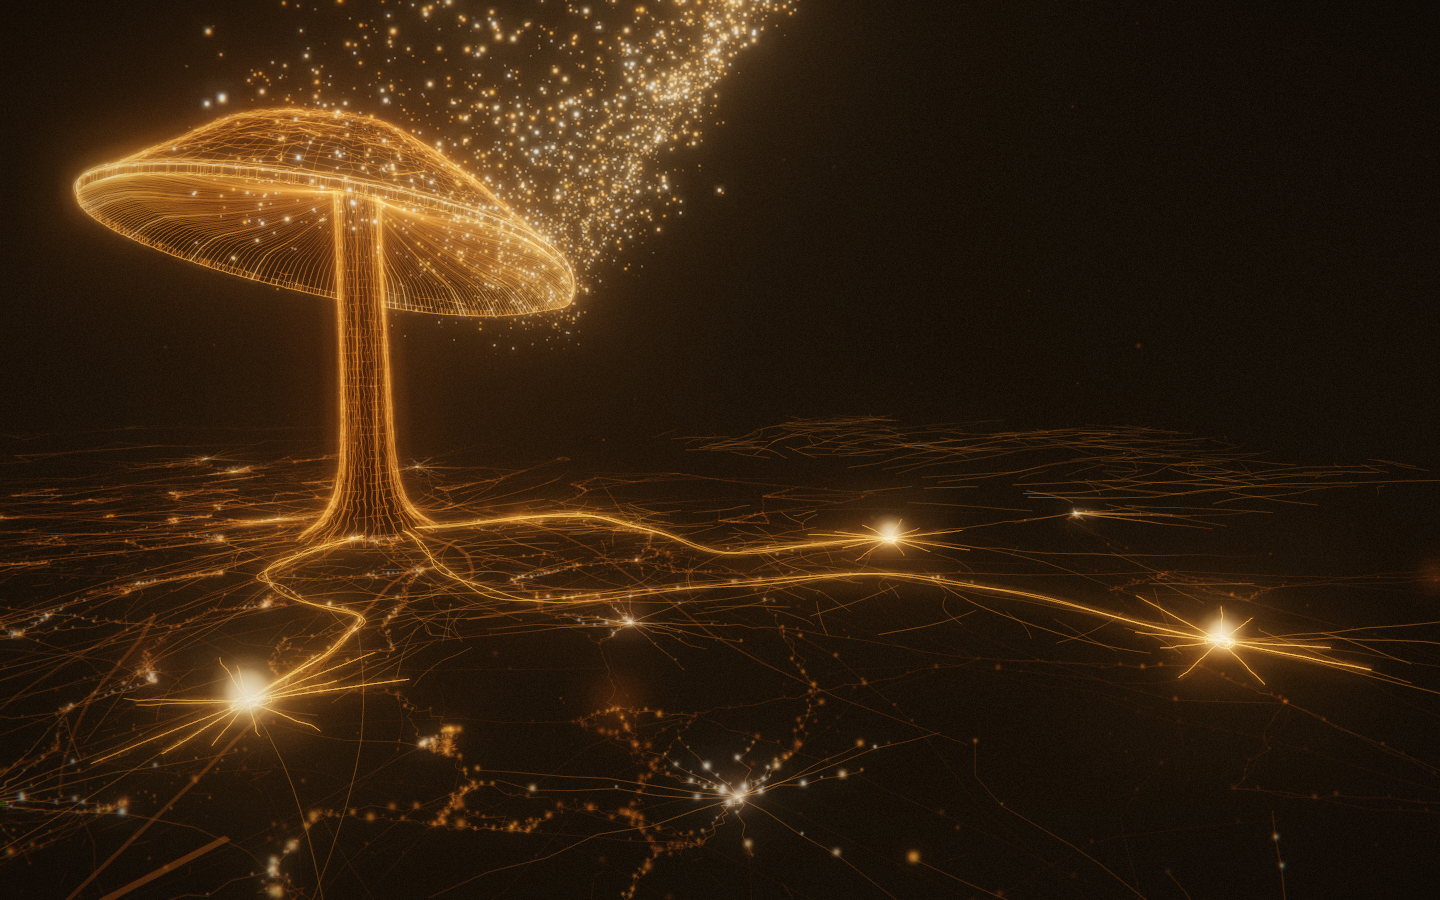
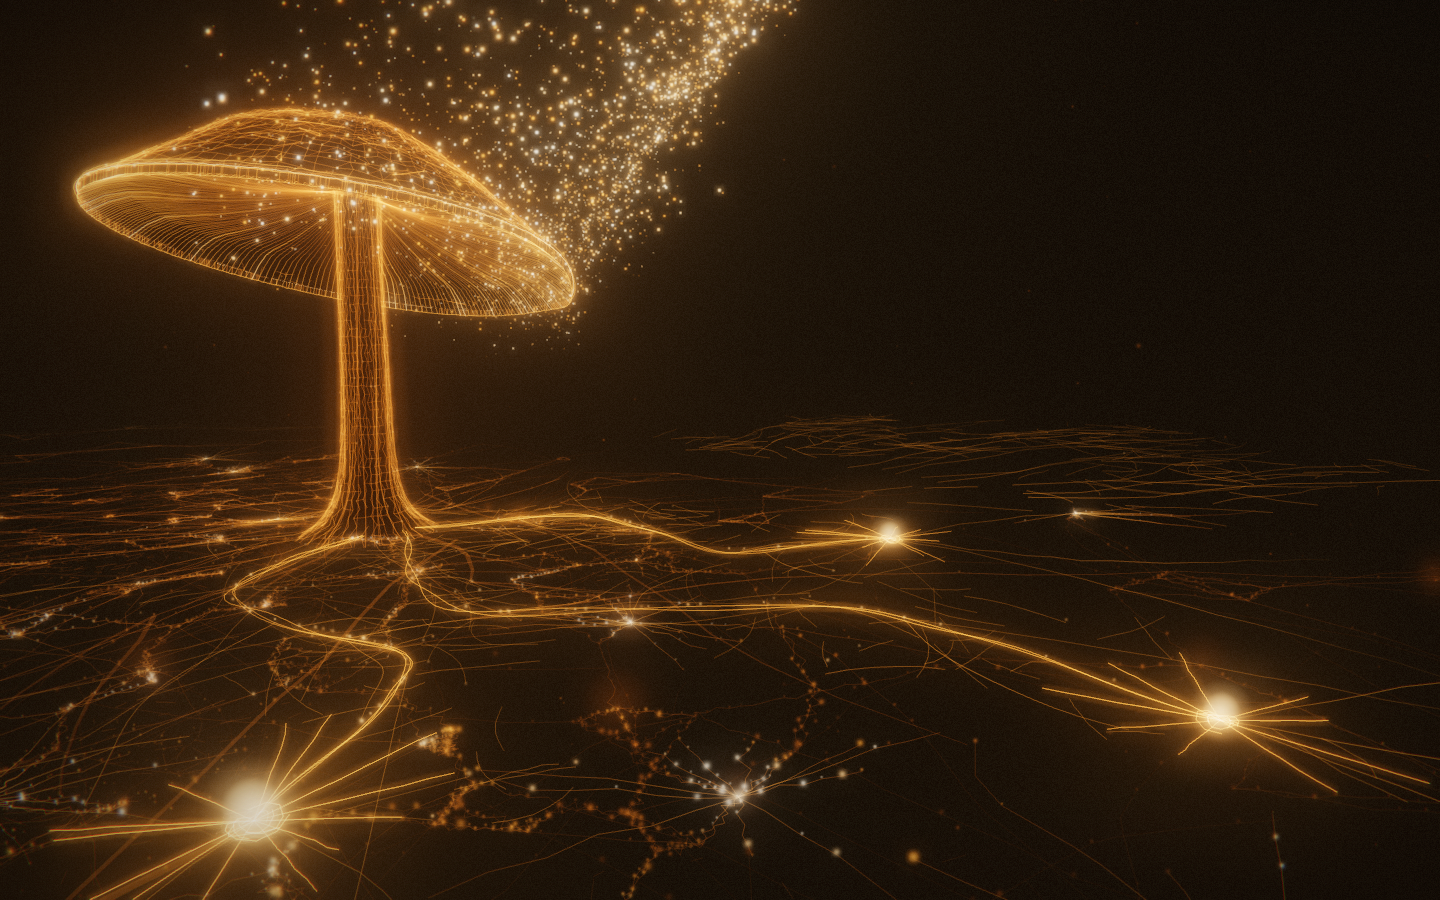
Connect: the bottom of the frame gets furniture — the camera had nothing left to spend
Hannah asked to push the mushroom down again, then immediately corrected
herself: "actually on this one instead, we should try pushing the ADOS one
down a bunch and the Discord one down a bit, and then visually understand
if it feels visually balanced." The correction is the better instruction
and this does exactly it — the camera and the mushroom are untouched.

Three passes have already priced the camera here: at fixed eye, radius and
fov the aim is a pure rotation, so the subject only comes down at ~1.27 px
of void under the copy per pixel gained. f31a0a9 spent it and clipped the
cap, 330d3a1 gave it back and re-opened the band, the third pass broke the
trade with two levers that were not the aim and spent what was left. The
hubs have no such exchange rate: they are furniture standing on ground
already in frame, and the empty part of the frame is the part with nothing
standing in it.

Authored in the frame rather than in world space, because a world-space
translation is the wrong tool — walking a hub along the ground-projected
camera axis moves it down AND hard right, and Discord leaves the right
edge before it has come down 60 px (at -1.0 units it sits at screen x 1339
of 1440 with a 100 px chip still to its right). Each target was picked as
a screen position at the 1440x900 rest and ray-marched back onto the
terrain; the solutions re-project to their targets exactly.

  ADOS     (3.40, 2.60) -> (4.61, 3.06)   screen y 701 -> 820  (+119 px)
[…]

Changed region(s): [[0.0312, 0.56, 1.0, 1.0]]

diff --git a/journey/chapters/connect/tendrils.js b/journey/chapters/connect/tendrils.js
@@ -151,10 +151,59 @@ const sm = (a, b, x) => smooth01((x - a) / (b - a));
 // and never run as a bundle; the hubs land at world radius 4.3 / 5.6 / 8.0 —
 // near / mid / far, exactly the narrative order (ADOS the flagship nearest the
 // base, Discord the far everyday door).
+// THE TWO NEAR HUBS COME DOWN THE FRAME (2026-08-14, Hannah): "we should try
+// pushing the ADOS one down a bunch and the Discord one down a bit, and then
+// visually understand if it feels visually balanced." This supersedes her own
+// preceding instruction to push the MUSHROOM down again; the complaint under
+// both is the same — dead space along the bottom of the Connect frame — and
+// the three passes above (f31a0a9, 330d3a1, the third pass) have established
+// that the camera cannot spend any more on it. At fixed eye, radius and fov
+// the aim is a pure rotation, so every pixel the subject comes down costs
+// ~1.27 px of void under the copy. This lever has no such exchange rate: the
+// hubs are the furniture, and moving furniture into an empty corner of the
+// room does not move anything else.
+//
+// AUTHORED IN THE FRAME, not in world space (doc §3: "the frame is the spec").
+// A world-space translation is the wrong tool here — walking a hub along the
+// ground-projected camera axis moves it down-screen AND hard to the right, and
+// for Discord that runs it off the right edge before it has come down 60 px
+// (measured: at −1.0 units it is at screen x 1339 of 1440, with a 100 px chip
+// still to its right). Instead each target was picked as a SCREEN position at
+// the 1440x900 rest and ray-marched back onto the terrain — cast from the lens
+// through the target pixel, bisect where the ray crosses groundY. The world
+// values below are that solution, and they re-project to their targets exactly.
+//
+//   ADOS      screen (248, 701) -> (254, 820)   down 119 px   world r 4.28 -> 5.53
+//   Discord   screen (1221, 641) -> (1220, 720)  down  79 px   world r 8.01 -> 7.89
+//   Hivemind  untouched
+//
+// "A bunch" and "a bit" as a 1.5:1 ratio in screen pixels, which is what the
+// two phrases have to mean side by side. Candidates at 90/50, 119/79 and
+// 149/109 px were compared on the frame: the first leaves a visible strip of
+// unoccupied ground under ADOS, the third pushes ADOS's halo hard against the
+// bottom edge and tightens the (pre-existing, already 4 px) portrait
+// hivemind/discord chip pair to 3 px. The middle one ships.
+//
+// WHAT THIS DOES TO THE ROUTES, because they are not free. The route is
+// re-sampled base -> hub, so its length changes, and `maxAlong` normalises the
+// whole lighting schedule: ADOS's run lengthens with its radius (4.28 -> 5.53)
+// and Discord's is very nearly a pure azimuth rotation at constant radius
+// (8.01 -> 7.89), which is exactly the asymmetry the screen-space authoring
+// produced and not a thing that was aimed for. The consequence is measured and
+// reported in 16-connect-ground-restage.md: the HIVEMIND -> DISCORD -> ADOS
+// order of `6afd508` still holds, ADOS is still last, and its light still
+// visibly travels before its dot kindles.
+//
+// DEPARTURE AZIMUTHS ARE DELIBERATELY NOT RE-AIMED. The 37 / -27 / -8 deg fan
+// out of the stipe base is what keeps the three primaries from leaving as a
+// bundle, and it is a property of the BASE, not of where each route ends. ADOS's
+// hub azimuth moves 3.9 deg and Discord's 8.8 deg, both small enough that the
+// existing bow constants absorb them; re-aiming `az` to chase the hubs would
+// narrow the fan for no gain.
 export const HUBS = {
-  ados:     { pos: new V3(3.40, 0, 2.60), az: 0.65, spokes: 13, coreScale: 0.46 },
+  ados:     { pos: new V3(4.61, 0, 3.06), az: 0.65, spokes: 13, coreScale: 0.46 },
   hivemind: { pos: new V3(5.00, 0, -2.60), az: -0.48, spokes: 11, coreScale: 0.40 },
-  discord:  { pos: new V3(7.80, 0, -1.80), az: -0.15, spokes: 9,  coreScale: 0.36 },
+  discord:  { pos: new V3(7.86, 0, -0.58), az: -0.15, spokes: 9,  coreScale: 0.36 },
 };
 export const HUB_IDS = ['ados', 'hivemind', 'discord'];
 

diff --git a/journey-v6-plan/16-connect-ground-restage.md b/journey-v6-plan/16-connect-ground-restage.md
@@ -2634,3 +2634,230 @@ the colony is unchanged and the colony did not regrow.
 the in-file reasoning, then was cut off by a network error before writing this
 section or committing. The orchestrator verified the gate independently and
 landed it.
+
+---
+
+## 2026-08-14 — the fourth pass moves the furniture, not the camera
+
+Hannah, first: *"Can you also push the mushroom down on the Connect the
+ecosystem page? It's still too high in the page, there's too much dead space at
+the bottom."* Then, immediately, superseding it: *"Actually on this one instead,
+we should try pushing the ADOS one down a bunch and the Discord one down a bit,
+and then visually understand if it feels visually balanced."*
+
+**Files:** `journey/chapters/connect/tendrils.js`, two entries in `HUBS`. No
+camera key, no rest pose, no copy-block change, no shader change.
+
+### Why the correction to her own instruction is the right one
+
+The three passes above have already established what the camera costs here. At
+fixed eye, radius and fov the aim is a pure rotation, so a degree of pitch moves
+the mushroom and the ground's far edge by the same angle — a measured **~1.27 px
+of void under the copy per 1 px the subject comes down**. `f31a0a9` spent it and
+clipped the cap; `330d3a1` gave it back and re-opened the band; the third pass
+broke the trade by adding two levers that were not the aim, and spent what was
+left. There is no fourth degree of pitch available that does not re-open a
+complaint she has already made twice.
+
+The hubs have no such exchange rate. They are furniture standing on ground that
+is already in frame, and the empty part of the frame is the part with no
+furniture in it. Moving them into it costs nothing anywhere else — which is why
+her second instruction is better than her first, and why this pass does exactly
+what it says and touches neither the camera nor the mushroom.
+
+### Authored in the frame, not in world space
+
+A world-space translation is the wrong tool. Walking a hub along the
+ground-projected camera axis moves it down-screen **and** hard to the right, and
+for Discord that runs it off the right edge before it has come down 60 px:
+measured, at −1.0 units Discord sits at screen x 1339 of 1440 with a 100 px chip
+still to its right.
+
+So each target was picked as a **screen position** at the 1440x900 rest and
+ray-marched back onto the terrain — cast from the lens through the target pixel,
+bisect where the ray crosses `groundY`. The solutions re-project to their targets
+exactly (checked: every solved point projects back to the requested pixel).
+
+| hub | world before | world after | screen before | screen after | Δ screen y |
+|---|---|---|---|---|---|
+| **ADOS** | (3.40, 2.60) | **(4.61, 3.06)** | (248, 701) | **(254, 820)** | **+119 px** |
+| **Discord** | (7.80, −1.80) | **(7.86, −0.58)** | (1221, 641) | **(1220, 720)** | **+79 px** |
+| Hivemind | (5.00, −2.60) | unchanged | (890, 538) | (890, 538) | 0 |
+
+"A bunch" and "a bit" as a **1.5:1 ratio in screen pixels**, which is what the
+two phrases have to mean standing side by side. Candidates at 90/50, 119/79 and
+149/109 px were compared on the frame: the first leaves a visible strip of
+unoccupied ground under ADOS; the third pushes ADOS's halo hard against the
+bottom edge and tightens the portrait hivemind/discord chip pair from 4 px to
+3 px. The middle one ships.
+
+Note what the screen-space authoring produced in world terms, because it was not
+aimed for and it matters below: ADOS's move is largely **radial** (r 4.28 →
+5.53) while Discord's is very nearly a **pure azimuth rotation** at constant
+radius (r 8.01 → 7.89).
+
+### Is it balanced — the verdict she asked for
+
+Yes, and the change is larger than the numbers suggest. Before, all three hubs
+sat inside a band across the middle third and the bottom ~22% of the frame was
+lit ground with nothing standing on it — a floor with no furniture, which is
+exactly what "dead space at the bottom" names. After, the three occupy the lower
+two-thirds as a spread triangle: Hivemind holds the centre at y 538, Discord
+anchors the lower right at 720, ADOS anchors the lower left at 820. Against the
+mushroom in the upper left and the copy in the upper right, the frame's four
+quadrants now each carry weight, and the eye has somewhere to go at the bottom
+instead of running out of picture.
+
+Two judgement calls worth naming rather than burying. ADOS is now the largest
+and brightest thing in the lower frame — it moved 1.25 units closer to the lens
+as well as down — and its spoke burst bleeds off the bottom and left edges. Both
+are deliberate: the bleed reads as the network continuing past the frame rather
+than as a cropped object, and ADOS being the biggest of the three is what
+`6afd508`'s ADOS-LAST reasoning already asserts it should be ("the event itself,
+nearest the eye and the largest of the three on screen"). This pass makes the
+frame agree with the schedule.
+
+### Chip clearances, all three sizes
+
+Rectangle gap, worst pair. Nothing regresses anywhere.
+
+| | chip-chip before | after | chip-copy before | after |
+|---|---|---|---|---|
+| 1440x900 | 239.7 | **275.5** | 188.0 | 188.0 |
+| 1280x800 | 200.9 | **234.0** | 152.0 | 152.0 |
+| 375x812 | 4.0 | **4.0** | 156.0 | **158.0** |
+
+Chip-chip **improves** at both landscape sizes, because the worst pair is
+Hivemind/Discord and Discord is moving away from Hivemind down the frame.
+Chip-copy is unchanged at both landscape sizes for a structural reason: the
+nearest chip to the copy block is **Hivemind's**, and Hivemind did not move.
+The two chips that did move both moved *away* from the copy.
+
+The 4.0 px portrait Hivemind/Discord pair is **identical before and after**. It
+is the same pre-existing tightness the third pass reported at 3.8 px, it comes
+from the portrait's own per-orientation chip anchors rather than from hub
+placement, and it is the one number the 149/109 candidate made worse — which is
+part of why that candidate was rejected.
+
+Chip rects at 1440x900 for the two that moved: ADOS [237, 690, 312, 713] →
+[243, 809, 317, 832]; Discord [1210, 630, 1309, 653] → [1209, 709, 1308, 732].
+Both sit clear of the 900 px bottom edge with 68 px of margin.
+
+### The hubs still meet the ground
+
+`h.pos.y = gy(h.pos.x, h.pos.z, 0.03)` runs at build for all three, so this is a
+check that the new coordinates land on real terrain rather than an assertion:
+
+| hub | y | groundY | lift |
+|---|---|---|---|
+| ADOS | 0.0167 | −0.0133 | **0.0300** |
+| Hivemind | 0.1293 | 0.0993 | **0.0300** |
+| Discord | −0.0572 | −0.0872 | **0.0300** |
+
+Exactly the authored lift on all three. The routes are re-sampled base → hub
+with the terrain law applied to the centre-line, so they follow the new ground
+too.
+
+### Route lengths, and what they did to the schedule
+
+This is the knock-on that mattered. `maxAlong` normalises the whole lighting
+schedule and it is the longest route plus 3.2, so a hub move re-scales
+everything. Measured at build:
+
+| route | arc length before | after | |
+|---|---|---|---|
+| ADOS | 4.2891 | **5.7872** | +34.9% — the radial move |
+| Hivemind | 6.0635 | **6.0635** | bit-identical, it did not move |
+| Discord | 8.3812 | **8.2352** | −1.7% — the rotation is nearly length-neutral |
+| **maxAlong** | **11.5812** | **11.4352** | −1.26%, and still Discord-driven |
+
+Per-route reach (`uLitMax`) 1.0796 / 1.1418 / 1.3250 → **1.2239 / 1.2258 /
+1.3250**. Two of those need explaining and neither is a fault:
+
+* **Discord's is pinned at 1.3250** rather than tracking its shorter arc,
+  because the third pass's added detail runners map their along values into the
+  0.82..0.995 tail *explicitly* rather than accumulating them from world arc.
+  Discord's reach is set by those runners, not by its own geometry.
+* **Hivemind's moved although Hivemind did not.** Its reach is the max `along`
+  over every vertex *lit by* that route, which includes the rng-seeded hairline
+  fill and continuations scattered around it — and the build shares one `rnd`
+  stream, so changing an earlier route re-rolls the later scatter. Its primary
+  polyline is bit-identical (6.0635 above); only the decoration moved.
+
+**And the visible schedule barely moves at all**, which is precisely what the
+normalisation is for — `uLit` runs a clean 0..1 per route however long the route
+is, so a reach change cancels in the timing. Measured on both trees with the
+same instrument (per-route `uLit` for the front, and each hub core sprite's own
+material opacity for the dot, sampled only on frames the group is drawn):
+
+| route | depart | dot 0% | saturate | window |
+|---|---|---|---|---|
+| **Hivemind** | 0.3880 → **0.3880** | 0.4030 → **0.4030** | 0.4420 → **0.4420** | 0.0540 → 0.0540 |
+| **Discord** | 0.4255 → **0.4255** | 0.4480 → **0.4465** | 0.4870 → **0.4840** | 0.0615 → 0.0585 |
+| **ADOS** | 0.4690 → **0.4660** | 0.4810 → **0.4810** | 0.5200 → **0.5200** | 0.0510 → 0.0540 |
+
+* **The order still reads: HIVEMIND → DISCORD → ADOS**, by both departure and
+  kindle, and ADOS is still last. `6afd508` is intact.
+* **ADOS's light still visibly travels before its dot kindles — and travels
+  longer.** Depart → dot 0% goes **0.0120 → 0.0150 of p, +25%**, because the
+  radial move lengthened its run. The one property `6afd508` exists to protect
+  is strictly better after this pass, not merely preserved.
+* Every window stays within 0.006 of p of where it was, and the whole arrival
+  still spans p 0.388 → 0.520.
+
+### The paths still pre-exist quietly
+
+`f9e8317`'s law is that the network is already there, quietly, before any light
+runs — it must not appear with the light. Sampled on frozen frames between the
+camera-pure resolve (p 0.350) and the first departure:
+
+| p | group drawn | uQuiet | uLit (all routes) | hub cores |
+|---|---|---|---|---|
+| 0.3550 | **true** | 0.22 | 0 / 0 / 0 | 0 / 0 / 0 |
+| 0.3700 | **true** | 0.22 | 0 / 0 / 0 | 0 / 0 / 0 |
+| 0.3850 | **true** | 0.22 | 0 / 0 / 0 | 0 / 0 / 0 |
+| 0.4000 | true | 0.22 | 0 / **0.205** / 0 | 0 / 0 / 0 |
+
+Drawn and quiet for the whole approach, with every core dark; the first front
+appears at 0.400 and the cores are still dark then. Nothing fades in over an
+open view.
+
+### Gates
+
+* **`capture.py --check`: PASS**, worst MAE **0.00/255** across all ten after
+  the re-shoot. Before it, exactly the two intended files were in the FAIL band
+  (`connect@1440x900` 5.91/255, 14.2% px > 8; `connect@430x932` 3.13/255, 7.6%)
+  and the other eight read **0.00** — including `final@*`, re-shot in this
+  session's preceding commit and undisturbed by this one. `connect@*` re-shot
+  here with the reason in `manifest.json`; the rest pose legitimately moved.
+* **Mirror scrub, REAL INPUT PATH** — `WheelEvent`s through the page's own
+  capture listeners across the Connect leg and back, no `scrollTo`/`flyTo` in
+  the drive. Per-route `uLit` — the reveal driver, and the sole input to the
+  hub kindle — mirrors forward against reverse to **1.1e−5 … 7.7e−5** at every
+  sample. Forward `uLit` non-monotonic in **0 frames of 4,000**: no
+  self-ignition.
+* **`tools/scrollgates.js`**: E1 −3.59e−4, E2/E3 **1.0000**, R1 settles
+  0.260000, R4 overshoot **0.00e+0**, R5 loop 0.000000 / 0.970000 / end-hold
+  1.0000, R6 ride up `0.2599 0.523 0.7249 0.9699 0` down `0.97 0.7251 0.523
+  0.2601 0`, **off-anchor stops: none**.
+* **Console over a full ride**: a real-gesture lap plus all five nav jumps —
+  3,045 frames, **0 console entries**.
+
+### Residuals
+
+* **A pre-existing forward/reverse residual in the hub cores' opacity, not in
+  the reveal.** The mirror scrub reads **1.6e−2** worst on `core.*` against
+  1e−5 on `uLit`. The cause is the `amount * resolve` factor in the core's
+  opacity — a time-based ease, so at a given p it depends on how fast you got
+  there. Measured on the untouched tree at **1.4e−2**, same class, same
+  magnitude, and it **flips sign between runs** (Hivemind at p 0.42 reads
+  fwd 0.4040 / rev 0.3958 before and fwd 0.4050 / rev 0.4212 after), which is
+  the signature of a speed artifact rather than a directional latch. `hubIgnite`
+  itself is a pure function of `uLit` and mirrors with it. Untouched by this
+  pass; worth its own if anyone wants the ease to be scrub-invariant.
+* The portrait Hivemind/Discord chip pair remains at 4 px. It is a property of
+  the per-orientation chip anchors and is now the binding constraint on any
+  further downward move of Discord.
+* ADOS's halo bleeds off the bottom-left corner by design. If the copy block or
+  the rail ever grow downward on the left, that is the element they will meet
+  first.
